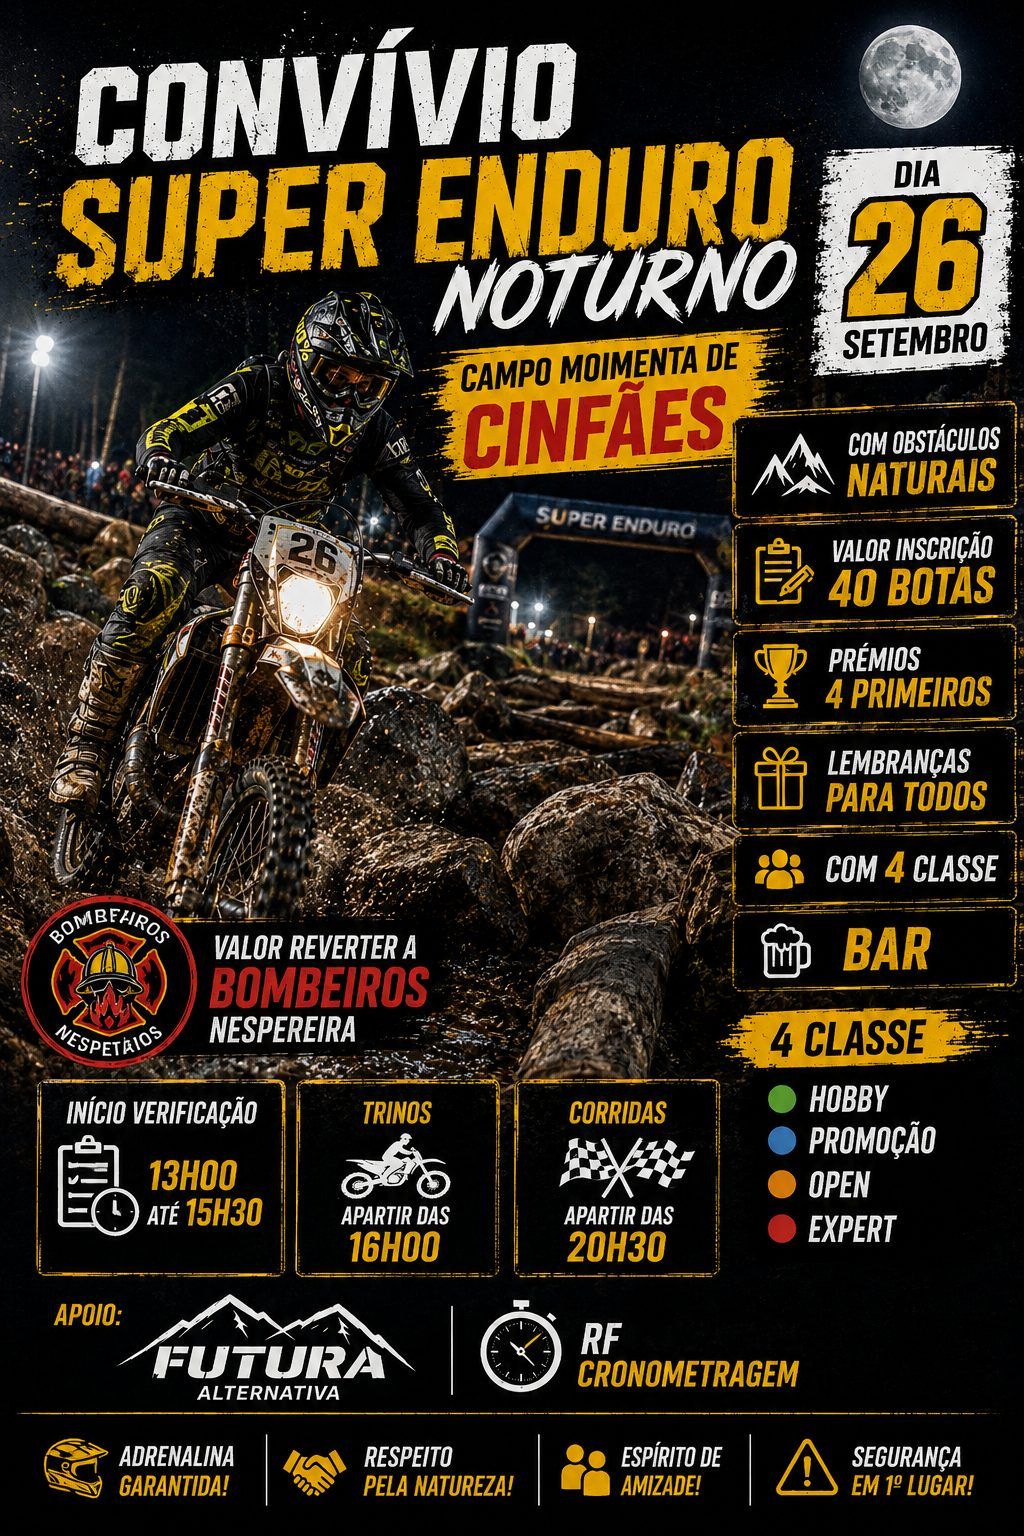
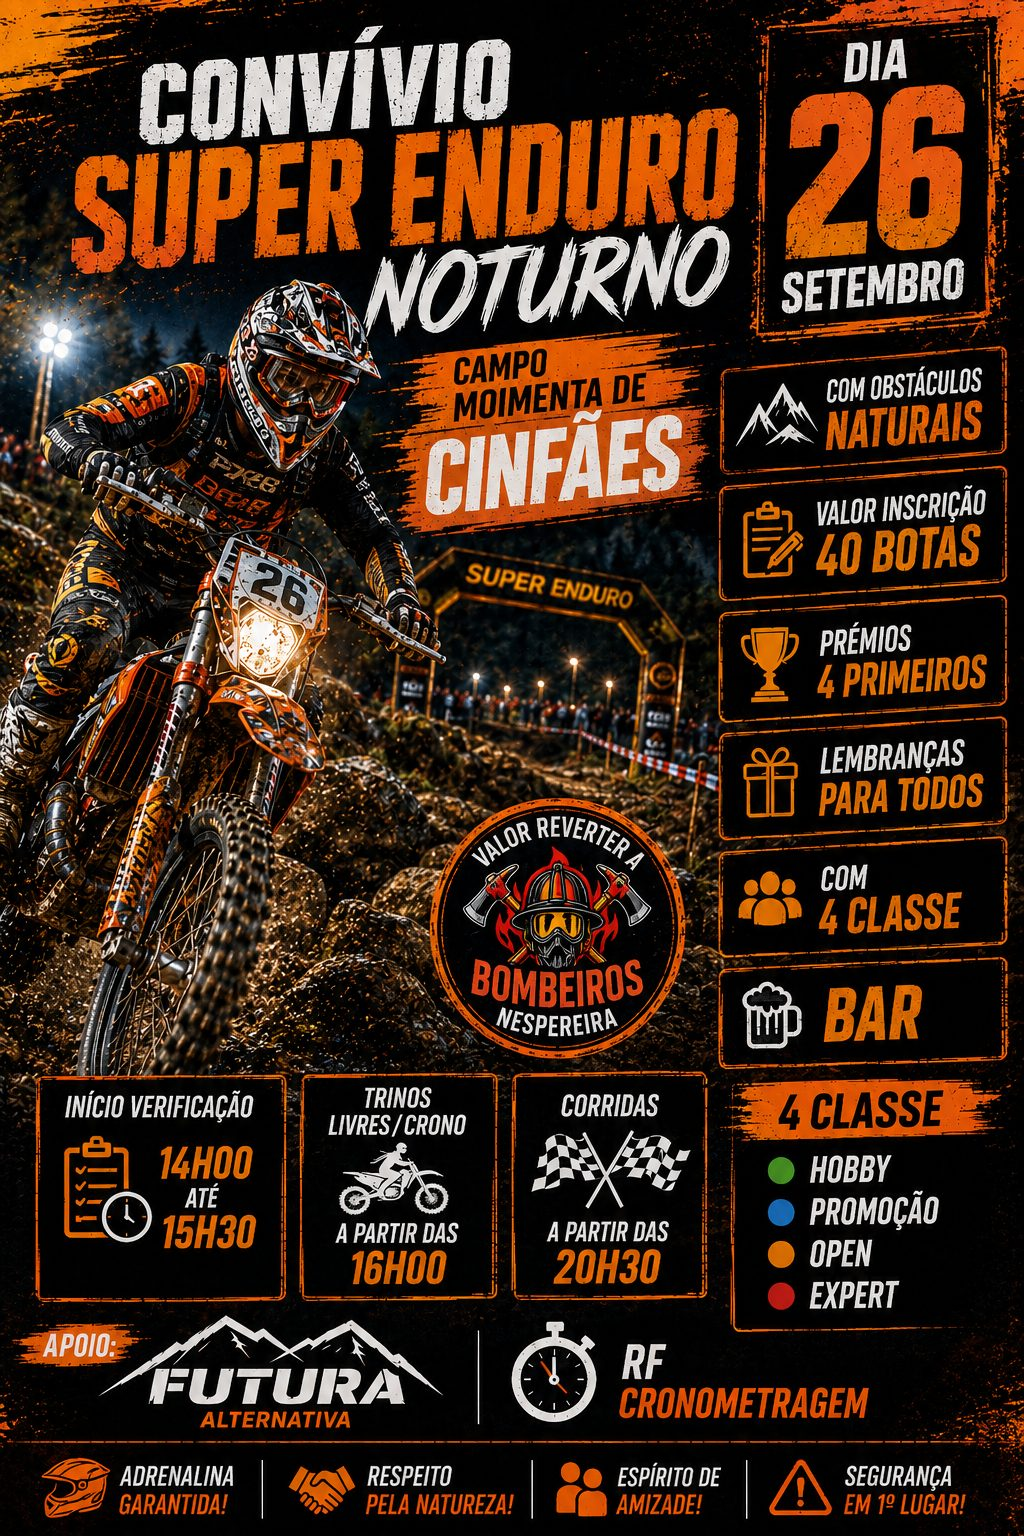
Nova prova: Super Enduro Noturno

diff --git a/js/dados.js b/js/dados.js
@@ -20,6 +20,12 @@ const DADOS = {
       "data": "2026-09-26",
       "hora": "09:00",
       "cartaz": "img/cartazes/2026-09-26-super-enduro-noturno.jpg"
+    },
+    {
+      "titulo": "Super Enduro Noturno",
+      "data": "2026-09-26",
+      "hora": "09:00",
+      "cartaz": "img/cartazes/2026-09-26-super-enduro-noturno.jpg"
     }
   ],
   "eventosRecentes": [
